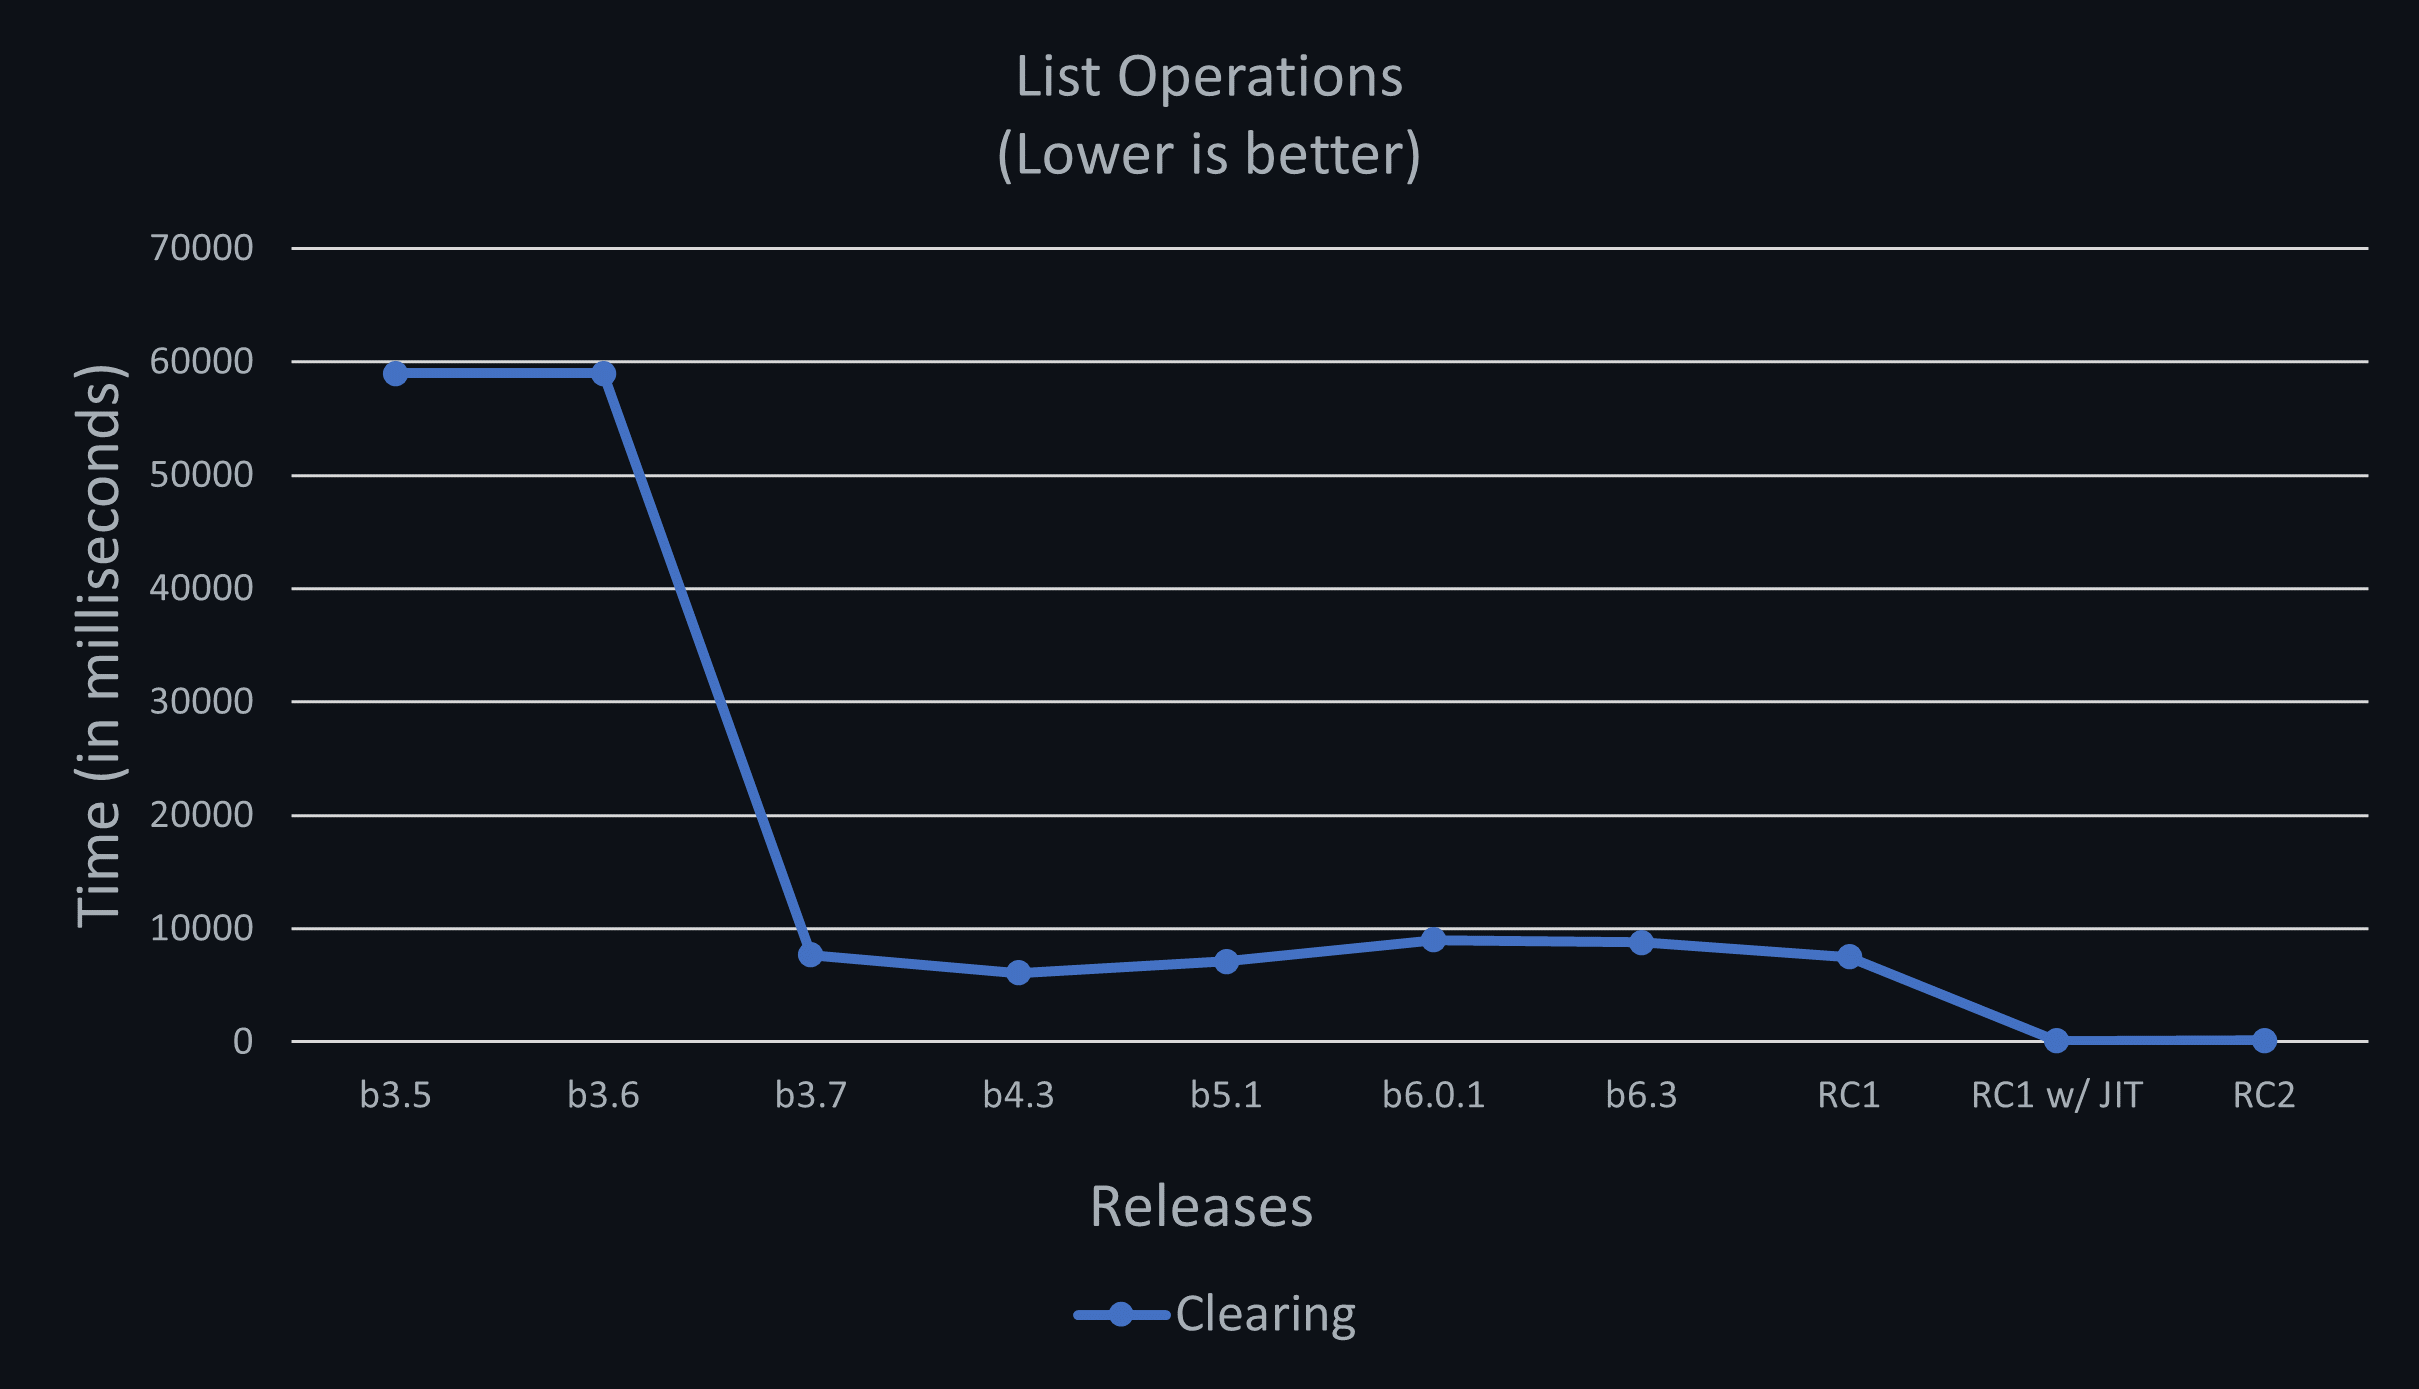
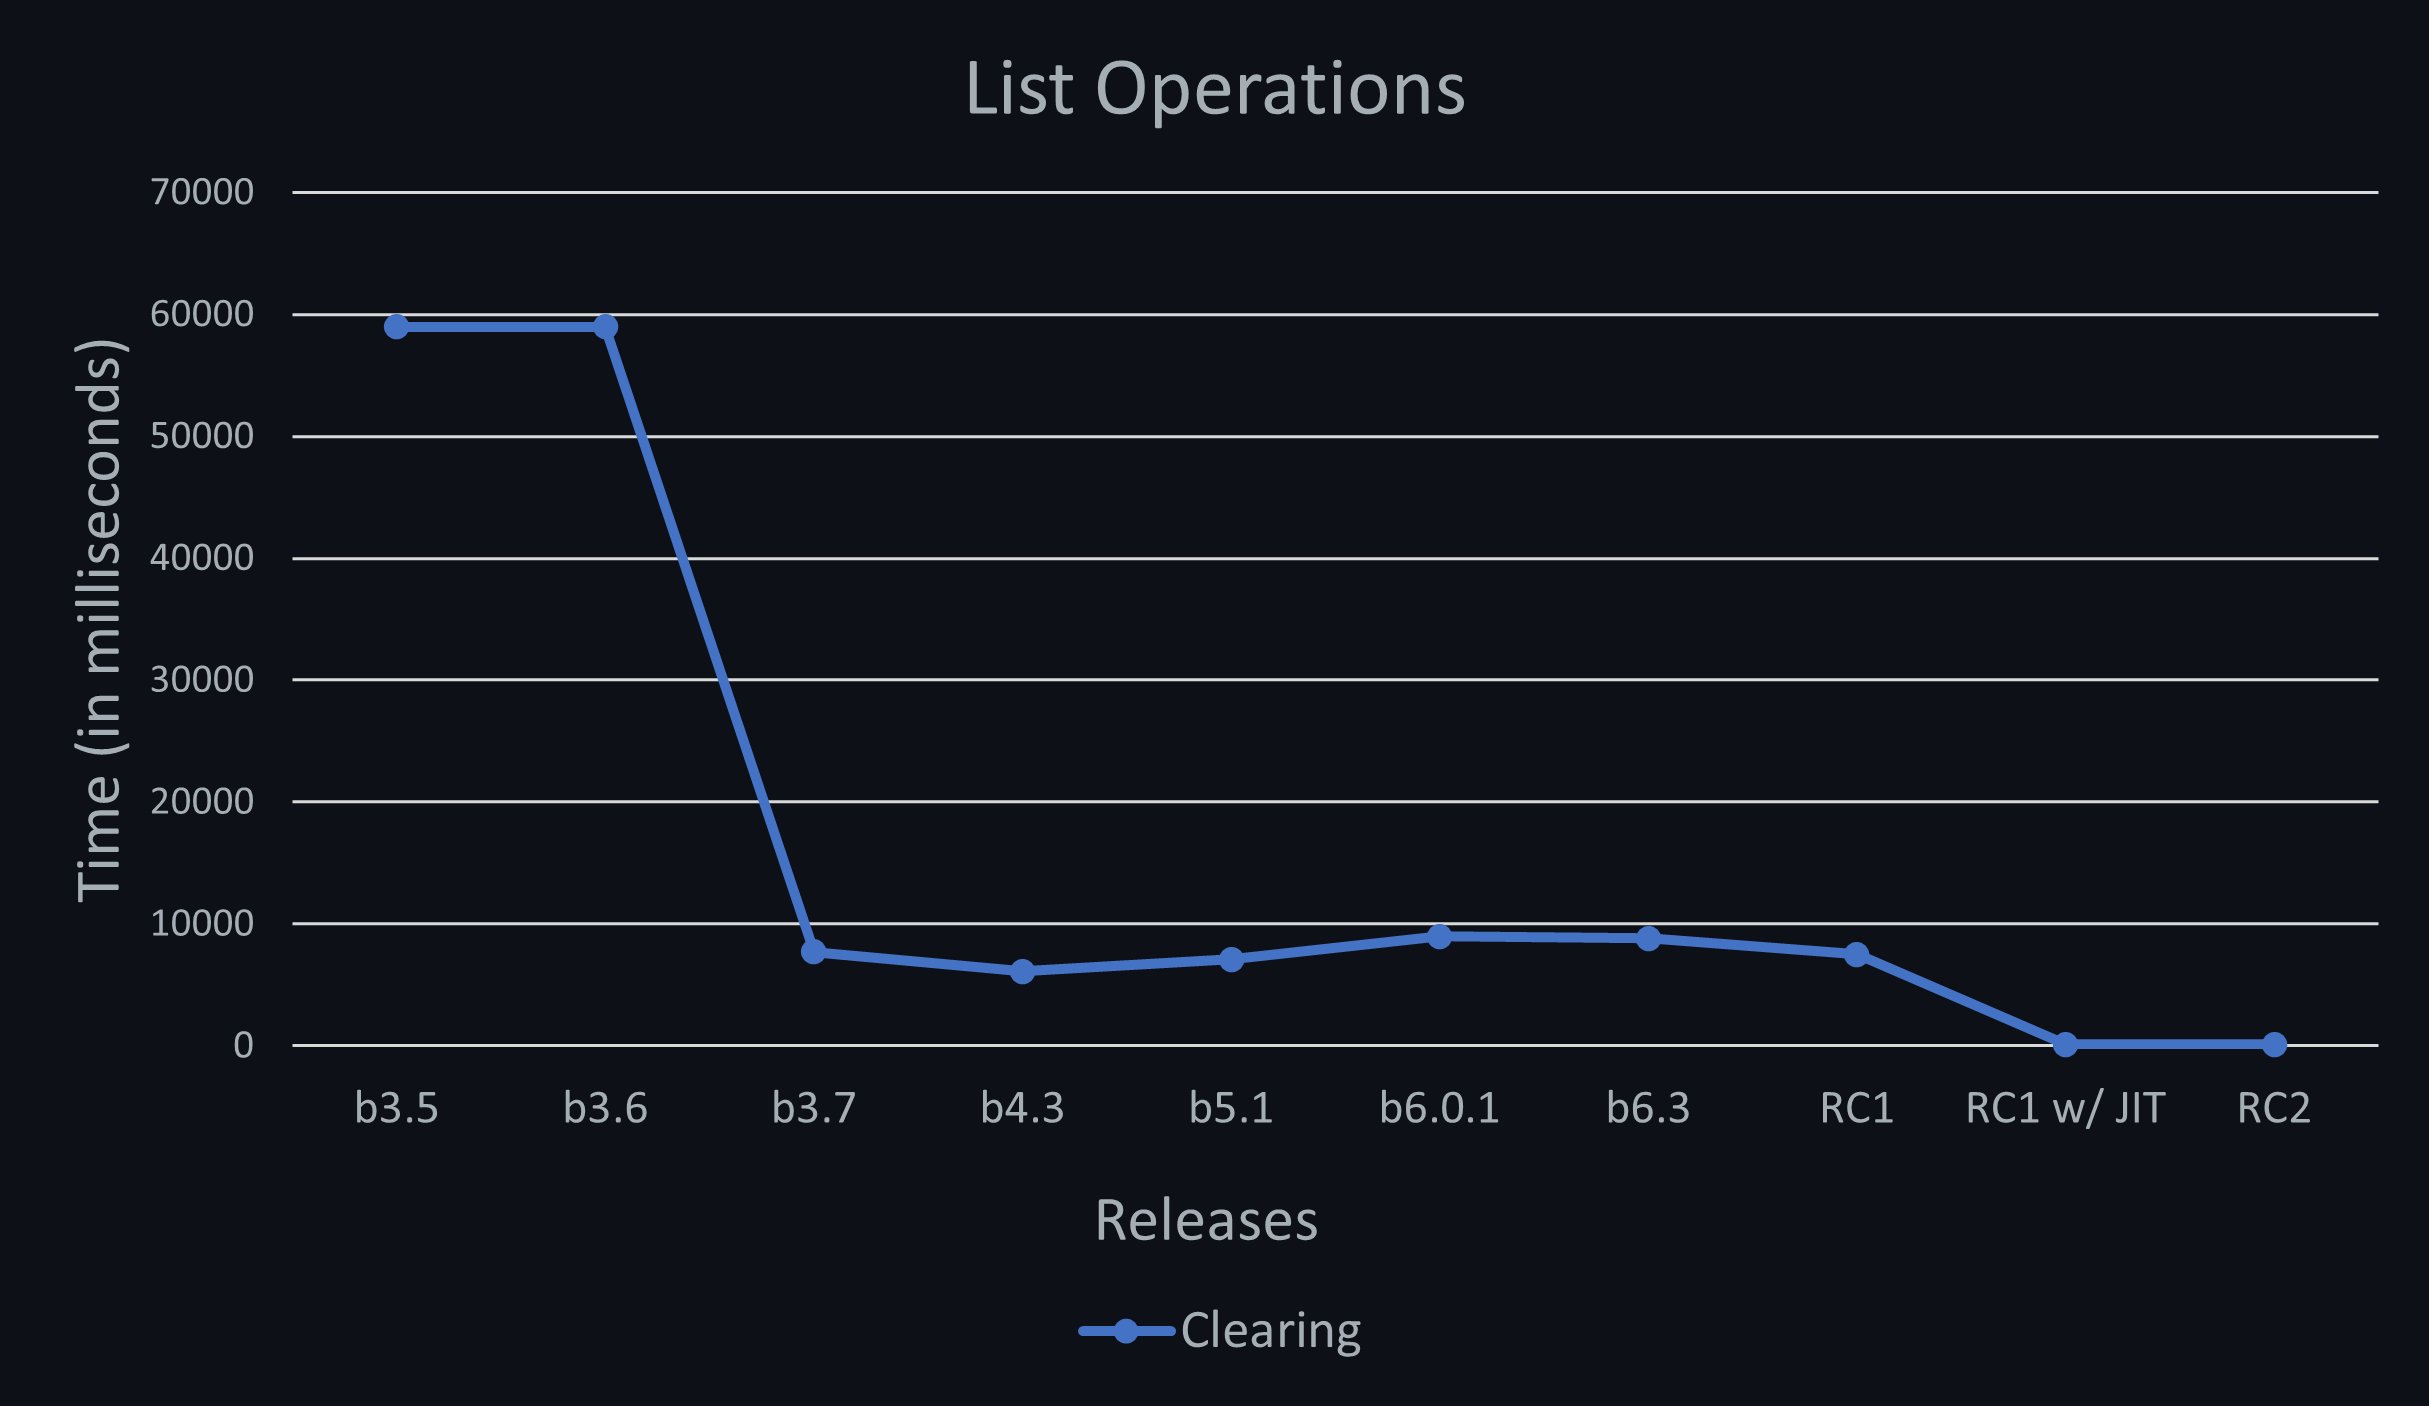
Update Readme

diff --git a/README.md b/README.md
@@ -14,11 +14,11 @@ To validate, make sure to run application in `release` mode.
 
 Calculates pi (`3.14159..`) to [`x`] digits and records the amount of time it takes. Here are the results per release update:
 
-| Operation          | **b3.5**   | **b3.6**   | **b3.7**   | **b6.0.1** | **b6.3**   | **RC1 no JIT** | **RC1 w/ JIT** | **RC-2** |
-|--------------------|------------|------------|------------|------------|------------|----------------|----------------|----------|
-| 50 digit Pi   | `11s`      | `11s`      | `2.3s`     | `1.8s`     | `1.7s`     | `2.3s`         | `2.3s`         | `2.2s`   |
-| 100 digit Pi  | `54s`      | `54s`      | `10.8s`    | `8.9s`     | `8.3s`     | `11.2s`        | `11.1s`        | `10.1s`  |
-| 150 digit Pi  | `127s`     | `126s`     | `24.4s`    | `20.6s`    | `19.3s`    | `26.3s`        | `25.8s`        | `23.4s`  |
+| Operation          | **b3.5**   | **b3.6**   | **b3.7**   | **b6.0.1** | **b6.3**   | **RC1**   | **RC1 w/ JIT** | **RC-2** |
+|--------------------|------------|------------|------------|------------|------------|-----------|----------------|----------|
+| 50 digit Pi        | `11`       | `11`       | `2.3`      | `1.8`      | `1.7`      | `2.3`     | `2.3`          | `2.2`    |
+| 100 digit Pi       | `54`       | `54`       | `10.8`     | `8.9`      | `8.3`      | `11.2`    | `11.1`         | `10.1`   |
+| 150 digit Pi       | `127`      | `126`      | `24.4`     | `20.6`     | `19.3`     | `26.3`    | `25.8`         | `23.4`   |
 
 ![Pi Calculation Graph](design/pi-calculation-dark.png)
  
@@ -26,36 +26,36 @@ Calculates pi (`3.14159..`) to [`x`] digits and records the amount of time it ta
 
 Create a 1,000 item `List<int>`, and do perform basic list operations on it.
 
-| Operation          | **b3.5**   | **b3.6**   | **b3.7**   | **b4.3**   | **b5.1**   | **b6.0.1** | **b6.3**   | **RC1 no JIT** | **RC1 w/ JIT** | **RC-2** |
-|--------------------|------------|------------|------------|------------|------------|------------|------------|----------------|----------------|----------|
-| Instantiation | `30ms`     | `30ms`     | `30ms`     | `19ms`     | `10ms`     | `11ms`     | `11ms`     | `5ms`          | `13ms`         | `14ms`   |
-| Population    | `120ms`    | `120ms`    | `20ms`     | `44ms`     | `20ms`     | `21ms`     | `10ms`     | `21ms`         | `28ms`         | `29ms`   |
-| Summation     | `130ms`    | `120ms`    | `30ms`     | `21ms`     | `19ms`     | `19ms`     | `11ms`     | `19ms`         | `26ms`         | `26ms`   |
+| Operation          | **b3.5**   | **b3.6**   | **b3.7**   | **b4.3**   | **b5.1**   | **b6.0.1** | **b6.3**   | **RC1**   | **RC1 w/ JIT** | **RC-2** |
+|--------------------|------------|------------|------------|------------|------------|------------|------------|-----------|----------------|----------|
+| Instantiation      | `30`       | `30`       | `30`       | `19`       | `10`       | `11`       | `11`       | `5`       | `13`           | `14`     |
+| Population         | `120`      | `120`      | `20`       | `44`       | `20`       | `21`       | `10`       | `21`      | `28`           | `29`     |
+| Summation          | `130`      | `120`      | `30`       | `21`       | `19`       | `19`       | `11`       | `19`      | `26`           | `26`     |
 
-![Pi Calculation Graph](design/list-operations-dark.png)
+![List Operations Graph](design/list-operations-dark.png)
 
-| Operation          | **b3.5**   | **b3.6**   | **b3.7**   | **b4.3**   | **b5.1**   | **b6.0.1** | **b6.3**   | **RC1 no JIT** | **RC1 w/ JIT** | **RC-2** |
-|--------------------|------------|------------|------------|------------|------------|------------|------------|----------------|----------------|----------|
-| List clearing      | `59s`      | `59s`      | `7.7s`     | `6.1s`     | `7.1s`     | `9.0s`     | `8.8s`     | `7.5s`         | `115ms`        | `130ms`  |
+| Operation          | **b3.5**   | **b3.6**   | **b3.7**   | **b4.3**   | **b5.1**   | **b6.0.1** | **b6.3**   | **RC1** | **RC1 w/ JIT** | **RC-2** |
+|--------------------|------------|------------|------------|------------|------------|------------|------------|---------|----------------|----------|
+| List clearing      | `59000`    | `59000`    | `7700`     | `6100`     | `7100`     | `9000`     | `8800`     | `7500`  | `115`          | `130`    |
 
-![Pi Calculation Graph](design/list-operations-clearing-dark.png)
+![List Operations Graph](design/list-operations-clearing-dark.png)
 
 ### Digital Output Port Operations
 
 Initializes three `DigitalOutputPort` instances, one for each of the onboard LED components and 
 writes to them.
 
-| Operation              | **b3.5**  | **b3.6**  | **b3.7**  | **b4.3**  | **b5.1**  | **b6.0.1** | **b6.3**   | **RC1 no JIT** | **RC1 w/ JIT** | **RC-2** |
-|------------------------|-----------|-----------|-----------|-----------|-----------|------------|------------|----------------|----------------|----------|
-| Port initialization    | `2.7s`    | `2.8s`    | `2.0s`    | `0.5s`    | `0.45s`   | `0.46s`    | `0.47s`    | `0.48s`        | `0.74s`        | `0.704s` |
-| 300 Port writes        | `48s`     | `13s`     | `0.15s`   | `1.4s`    | `1.33s`   | `0.15s`    | `0.14s`    | `0.14s`        | `0.05s`        | `0.05s`  |
-| Average time per write | `159ms`   | `42ms`    | `0.5ms`   | `0.5ms`   | `0.44ms`  | `0.51ms`   | `0.46ms`   | `0.47ms`       | `0.16ms`       | `0.17ms`  |
+| Operation              | **b3.5**  | **b3.6**  | **b3.7**  | **b4.3**  | **b5.1**  | **b6.0.1** | **b6.3**   | **RC1**    | **RC1 w/ JIT** | **RC-2** |
+|------------------------|-----------|-----------|-----------|-----------|-----------|------------|------------|------------|----------------|----------|
+| Port initialization    | `2700`    | `2800`    | `2000`    | `500`     | `450`     | `460`      | `470`      | `480`      | `740`          | `704`    |
+| 300 Port writes        | `48000`   | `13000`   | `150`     | `1400`    | `1330`    | `150`      | `140`      | `140`      | `50s`          | `50`     |
+| Average time per write | `159`     | `42`      | `0.5`     | `0.5`     | `0.44`    | `0.51`     | `0.46`     | `0.47`     | `0.16`         | `0.17`   |
 
 ### SoftPwmGeneration
 
 Generates a PWM signal in software. Currently is a visual test. Run the test and note which was 
 the last frequency change that was noticeable.
 
-| Operation                        | **b3.5** | **b3.6** | **b3.7** | **b4.3** | **b5.1** | **b6.0.1** | **b6.3**   | **RC1 no JIT** | **RC1 w/ JIT** |
-|----------------------------------|----------|----------|----------|----------|----------|------------|------------|----------------|----------------|
-| Maximum Frequency @ `50%` duty   | ~`50hz`  | ~`50hz`  | ~`100hz` | ~`100hz` | ~`100hz` | ~`100hz`   | ~`100hz`   |  ~`100Hz`      | ~`1500Hz`      |
+| Operation                        | **b3.5** | **b3.6** | **b3.7** | **b4.3** | **b5.1** | **b6.0.1** | **b6.3**   | **RC1**   | **RC1 w/ JIT** |
+|----------------------------------|----------|----------|----------|----------|----------|------------|------------|-----------|----------------|
+| Maximum Frequency @ `50%` duty   | ~`50hz`  | ~`50hz`  | ~`100hz` | ~`100hz` | ~`100hz` | ~`100hz`   | ~`100hz`   |  ~`100Hz` | ~`1500Hz`      |
